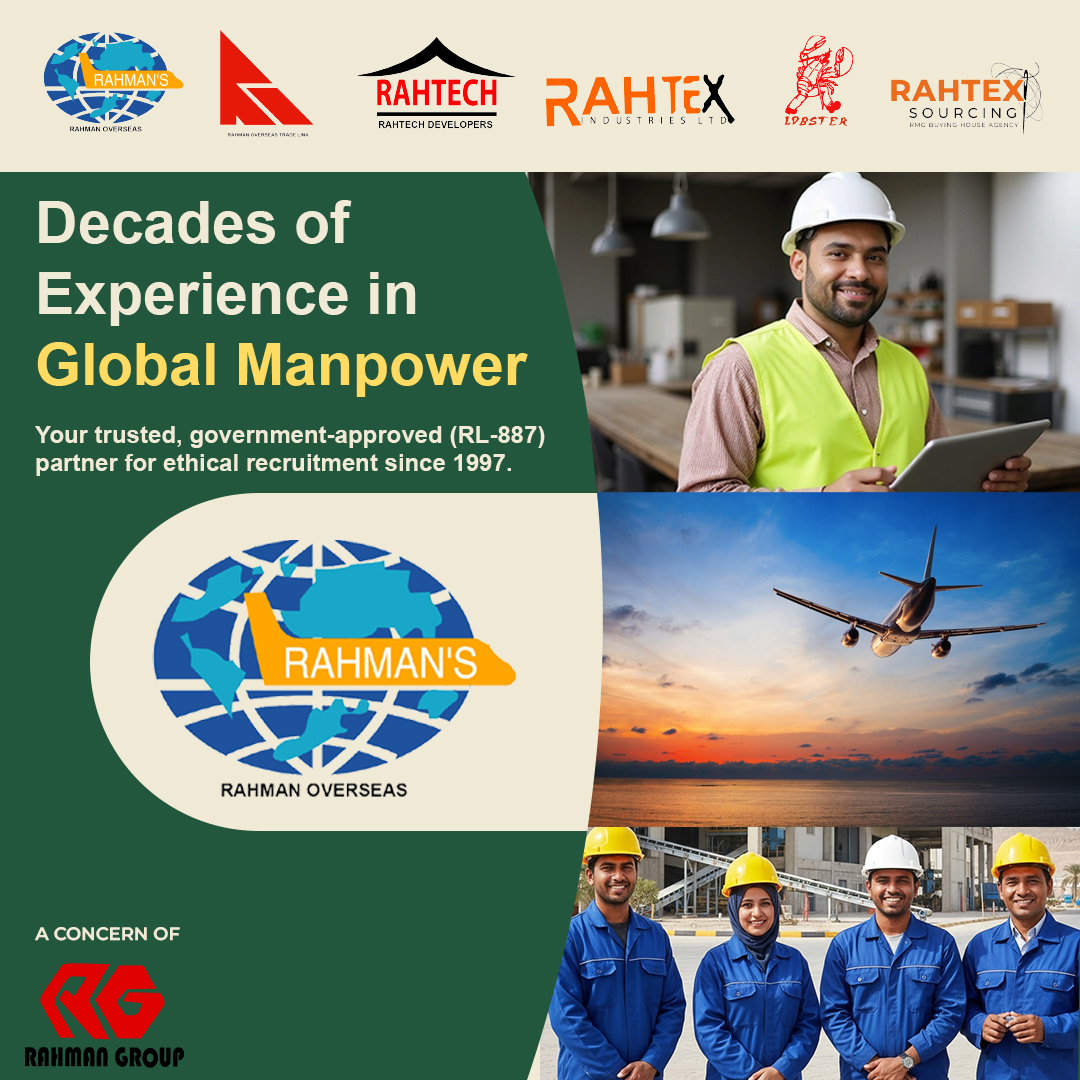
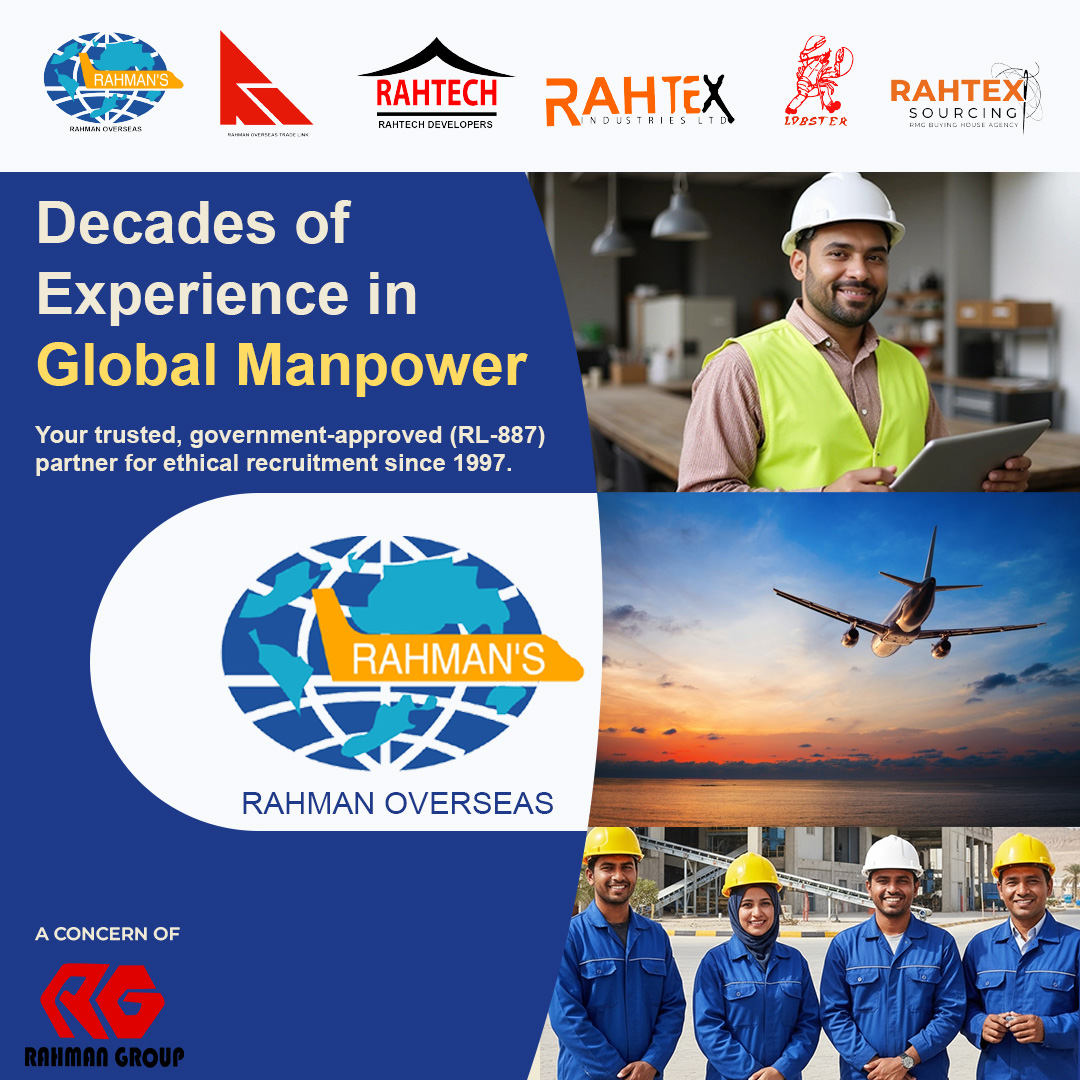
changed color

diff --git a/tailwind.config.ts b/tailwind.config.ts
@@ -10,15 +10,18 @@ const config: Config = {
     extend: {
       colors: {
         /**
-         * == ADJUSTABLE PARAMETERS (RULE 3) ==
-         * Your new "Eco-Industrial + Gold" palette
+         * == NEW THEME: BLUE & ORANGE ==
+         * Primary: Deep Royal Blue
+         * Accent: Vibrant Orange
+         * Background: Clean White/Cool Gray
          */
         theme: {
-          background: "#F0EAD6", // Sand/Tan
-          text: "#4A4A4A",       // Dark Brown
-          primary: "#22573D",    // Forest Green
-          "primary-dark": "#1a432e", // Darker Green
-          accent: "#B8860B",     // Gold
+          background: "#F8FAFC", // Very light cool gray/white
+          "background-alt": "#EFF6FF", // Pale blue for subtle distinct sections
+          text: "#0F172A",       // Dark Slate for text
+          primary: "#1E3A8A",    // Deep Royal Blue (Brand Color)
+          "primary-dark": "#172554", // Darker Blue for hover states
+          accent: "#F97316",     // Vibrant Orange (Highlights/Buttons)
         },
       },
     },

diff --git a/src/components/home/KeywordRibbon.tsx b/src/components/home/KeywordRibbon.tsx
@@ -24,7 +24,7 @@ const marqueeTransition: Transition = {
 
 export function KeywordRibbon() {
   return (
-    <div className="w-full overflow-x-hidden py-3 bg-theme-background-alt border-y border-theme-accent/20">
+    <div className="w-full overflow-x-hidden py-3 bg-theme-accent/80 border-y border-theme-accent/20">
       <motion.div
         className="whitespace-nowrap flex"
         variants={marqueeVariants}
